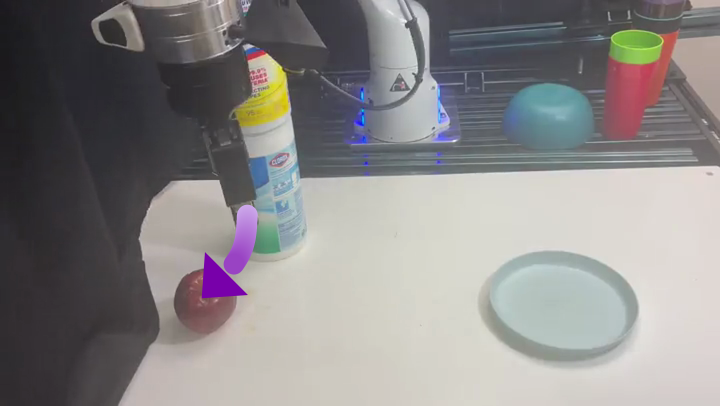
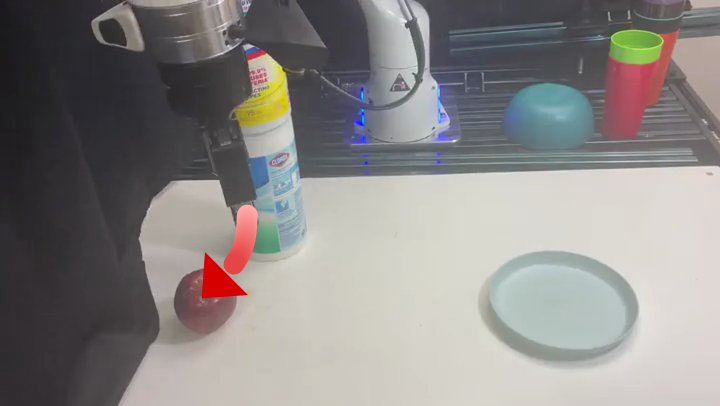
All arrows back to light red -> red; keep purple borders on projected samples

Changed region(s): [[0.275, 0.5025, 0.3667, 0.7389]]

diff --git a/assets/hardware/frames/render_trajectories.py b/assets/hardware/frames/render_trajectories.py
@@ -12,16 +12,9 @@ def rgb(r, g, b):
 
 PURPLE, LPURPLE = rgb(120, 0, 170), rgb(205, 170, 235)
 GREEN, LGREEN = rgb(0, 150, 40), rgb(170, 235, 170)
-# gradient stops (start ... current position) by output filename prefix
-SCHEMES = {
-    "2_": [rgb(255, 175, 175), rgb(215, 0, 0)],            # gradient guidance: light red -> red
-    "3_": [LPURPLE, PURPLE],                               # projection: light purple -> purple
-    "7_": [LPURPLE, PURPLE],
-    "6_": [LGREEN, GREEN],                                 # rejection: light green -> green
-    "8_": [PURPLE, LPURPLE, rgb(255, 255, 255), LGREEN, GREEN],  # CS-Pi: purple -> white -> green
-    "9_": [PURPLE, LPURPLE, rgb(255, 255, 255), LGREEN, GREEN],
-    "5_": [PURPLE, LPURPLE, rgb(255, 255, 255), LGREEN, GREEN],
-}
+# gradient stops (start ... current position): light red -> red for every figure
+RED = [rgb(255, 175, 175), rgb(215, 0, 0)]
+SCHEMES = {k: RED for k in ("2_", "3_", "5_", "6_", "7_", "8_", "9_")}
 # figures that get an outline around the arrow
 BORDER = {"3_projection_failure.png": PURPLE, "9_cspi_1_post.png": PURPLE, "9_cspi_2_post.png": PURPLE}
 
